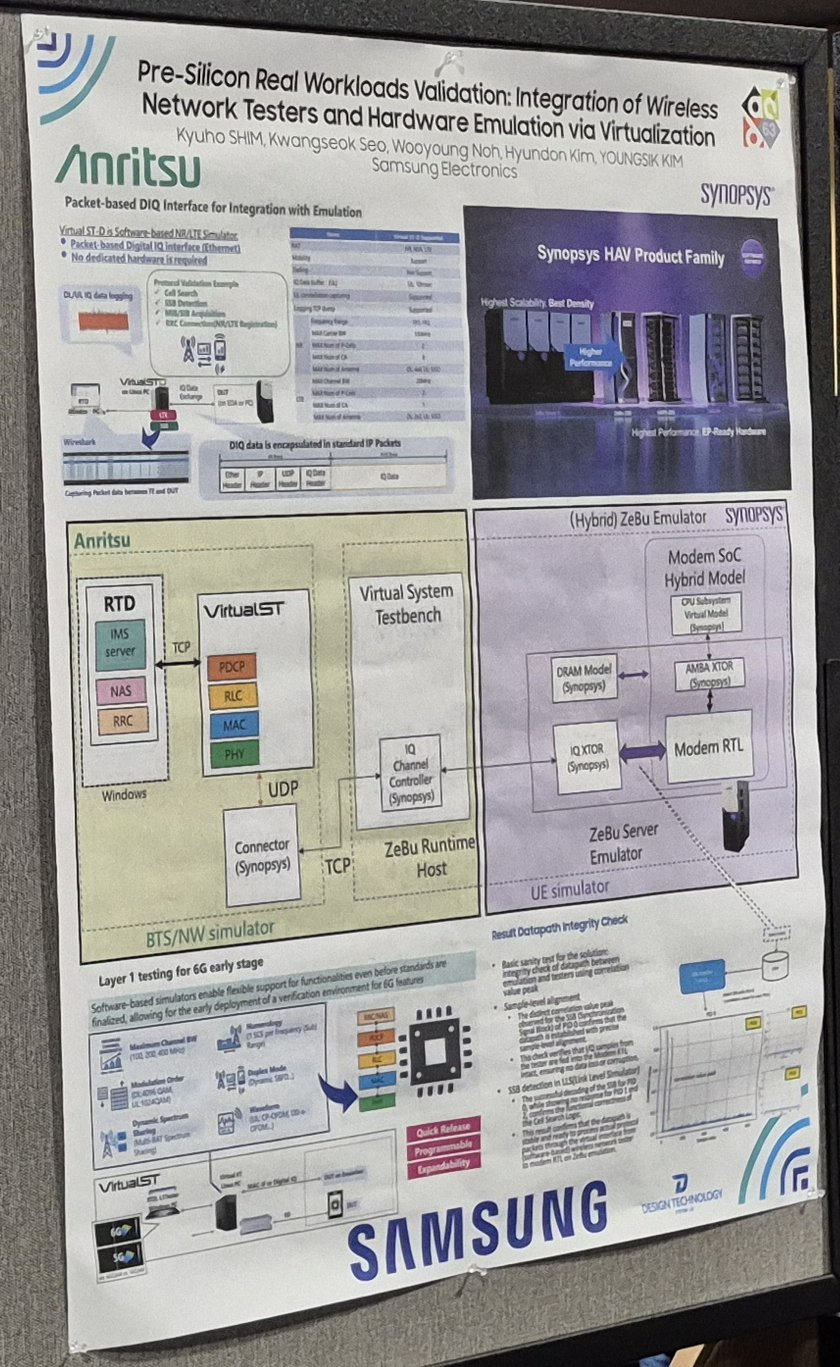
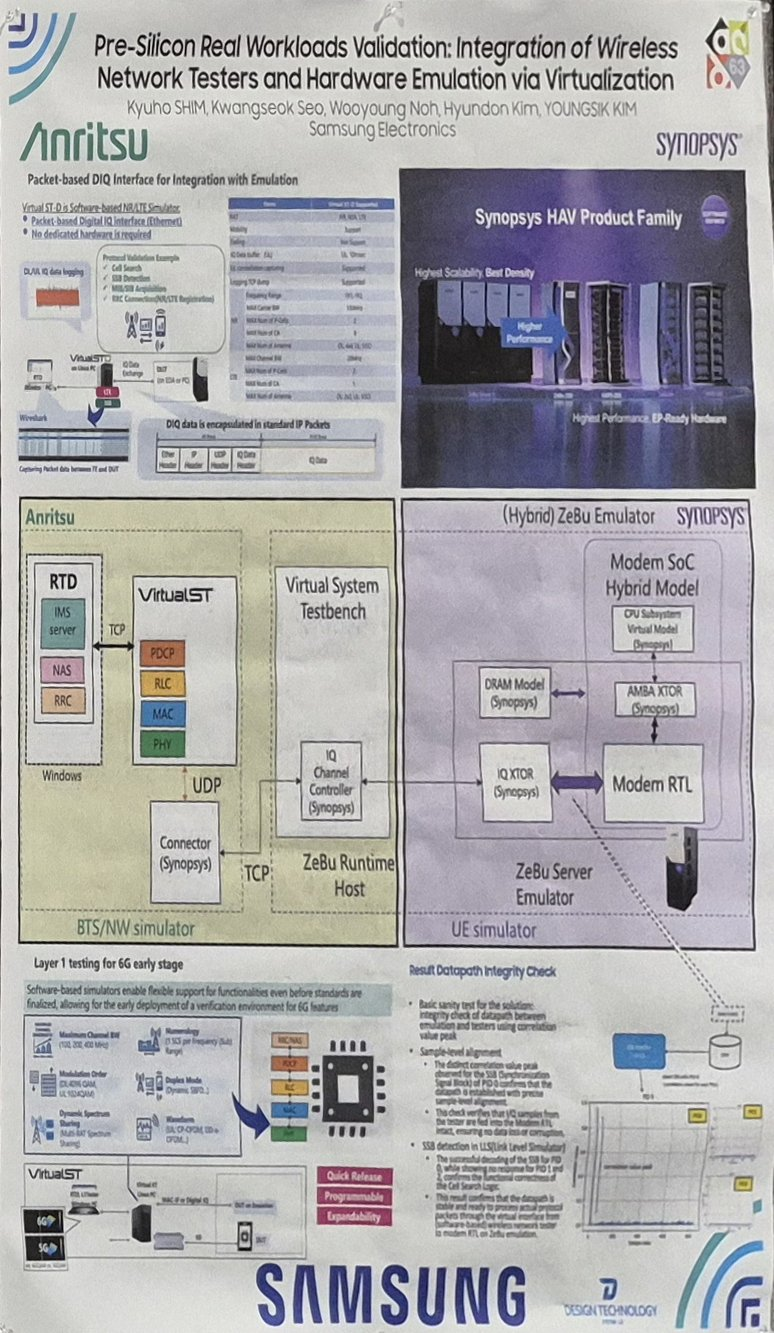
DAC 2026 page: drop the perspective line, front-on Hybrid Virtual ICE poster, tighter related links, rules between topics
Claude-Session: https://claude.ai/code/session_01SteYmA1gsWKWv4FvpXktiq

diff --git a/scripts/3_build_mkdocs.py b/scripts/3_build_mkdocs.py
@@ -115,7 +115,7 @@ def build_conf(conf) -> None:
     def related(p):
         mytags = set(analysis[p["file"]].get("tags", [])) - {"my-work"}
         scored = [(len(mytags & set(analysis[q["file"]].get("tags", []))), q) for q in photos if q is not p]
-        scored = [(n, q) for n, q in scored if n]
+        scored = [(n, q) for n, q in scored if n >= 2]  # at least two shared tags, so related stays related
         scored.sort(key=lambda x: -x[0])
         return [(analysis[q["file"]]["title"], item_id(q)) for _, q in scored[:3]]
 
@@ -142,8 +142,6 @@ def build_conf(conf) -> None:
     lines = [f"# {conf.title}", "",
              f"{m['full_name']} · {m.get('location', '')} · {m.get('dates', '')}", "",
              f"[Official site]({m['url']}) · [Home](../index.md)" if m.get("url") else "[Home](../index.md)", ""]
-    lines += para(f"*{m.get('tagline', '')}* — {n} posters and slides I looked at.",
-                  f"*{m.get('tagline_ko', m.get('tagline', ''))}* — 제가 본 포스터와 슬라이드 {n}개입니다.")
     if m.get("about"):
         lines += head(2, "About DAC", "DAC 소개")
         for en, ko in zip(m["about"], m["about_ko"]):
@@ -164,11 +162,15 @@ def build_conf(conf) -> None:
     for tp in m.get("topics", []):
         ps = [by_stem[s] for s in tp["items"] if s in by_stem]
         placed.update(p["file"] for p in ps)
+        lines += ["---", ""]  # rule between topics
         lines += head(2, tp["title"], tp.get("title_ko", tp["title"]))
         if tp.get("note"):
             lines += para(tp["note"], tp.get("note_ko", tp["note"]))
-        lines += [photo_block(p, analysis[p["file"]], related(p), official(p), pg.get("source", ""), "#official-dac-2026-archive" if pg.get("archive") else "",
-                           program_url(official(p)["title"], index) if official(p) else "", m_url) for p in ps]
+        for n, p in enumerate(ps):
+            if n:
+                lines += ["---", ""]  # thin rule between items of one topic
+            lines += [photo_block(p, analysis[p["file"]], related(p), official(p), pg.get("source", ""), "#official-dac-2026-archive" if pg.get("archive") else "",
+                               program_url(official(p)["title"], index) if official(p) else "", m_url)]
     rest = [p for p in photos if p["file"] not in placed]
     if rest:
         lines += head(2, "Other Posters & Slides", "그 밖의 포스터와 슬라이드")

diff --git a/scripts/1_ingest_and_filter.py b/scripts/1_ingest_and_filter.py
@@ -13,6 +13,8 @@ Re-running keeps manual edits to `kind` / `include` / `blur` in the manifest.
 0..1 of the image) blurs those boxes instead of the detected faces.
 `crop: [x0,y0,x1,y1]` (fractions) keeps only that region (e.g. the poster) and
 skips blurring.
+`warp: [[x,y] x4]` (fractions, corners TL, TR, BR, BL) deskews a poster shot at an angle
+into a front-on view; it replaces `crop` and also skips blurring.
 `--only a.jpg b.jpg` reprocesses just those files.
 """
 import re
@@ -114,6 +116,13 @@ def main() -> int:
             x0, y0, x1, y1 = old["crop"]
             w0, h0 = img.size
             img = img.crop((int(x0 * w0), int(y0 * h0), int(x1 * w0), int(y1 * h0)))
+        if old.get("warp"):  # deskew a poster photographed at an angle
+            w0, h0 = img.size
+            tl, tr, br, bl = [(x * w0, y * h0) for x, y in old["warp"]]
+            ow = int(max(np.hypot(tr[0] - tl[0], tr[1] - tl[1]), np.hypot(br[0] - bl[0], br[1] - bl[1])))
+            oh = int(max(np.hypot(bl[0] - tl[0], bl[1] - tl[1]), np.hypot(br[0] - tr[0], br[1] - tr[1])))
+            m = cv2.getPerspectiveTransform(np.float32([tl, tr, br, bl]), np.float32([[0, 0], [ow, 0], [ow, oh], [0, oh]]))
+            img = Image.fromarray(cv2.warpPerspective(np.array(img), m, (ow, oh), flags=cv2.INTER_CUBIC))
         bgr = cv2.cvtColor(np.array(img), cv2.COLOR_RGB2BGR)
         faces = detect_faces(bgr)
         H, W = bgr.shape[:2]
@@ -124,7 +133,7 @@ def main() -> int:
             kind = "scene"
         else:
             kind = "tech"
-        mode = "none" if old.get("crop") else old.get("blur", "auto")
+        mode = "none" if old.get("crop") or old.get("warp") else old.get("blur", "auto")
         if mode == "auto":
             bgr = scrub(bgr, faces)
         elif mode != "none":
@@ -142,7 +151,7 @@ def main() -> int:
             "faces": len(faces),
             "kind": old.get("kind", kind),
             "include": old.get("include", kind != "skip"),
-            **{k: old[k] for k in ("blur", "crop", "note") if k in old},
+            **{k: old[k] for k in ("blur", "crop", "warp", "note") if k in old},
         })
         print(f"{p.name}: {taken:%m-%d %H:%M} ({src}) faces={len(faces)} kind={items[-1]['kind']}")
 

diff --git a/docs/dac2026/index.md b/docs/dac2026/index.md
@@ -4,12 +4,6 @@
 
 [Official site](https://dac.com/63rd-dac) · [Home](../index.md)
 
-*Front-End Verification & Emulation Perspective* — 18 posters and slides I looked at.
-{ .en }
-
-*프론트엔드 검증과 에뮬레이션 관점* — 제가 본 포스터와 슬라이드 18개입니다.
-{ .ko }
-
 ## About DAC { .en }
 
 ## DAC 소개 { .ko }
@@ -49,6 +43,8 @@ Every talk, poster and paper has its own page, with abstract, in the searchable 
 모든 발표, 포스터, 논문은 검색 가능한 프로그램에 초록과 함께 각자의 페이지가 있고, 전문은 ACM 프로시딩(연구)과 Engineering Track 프로시딩 zip에 있습니다.
 { .ko }
 
+---
+
 ## Emulation, virtualization and firmware-driven verification { .en }
 
 ## 에뮬레이션, 가상화, 펌웨어 기반 검증 { .ko }
@@ -64,14 +60,14 @@ Every talk, poster and paper has its own page, with abstract, in the searchable 
 <div class="en" markdown>
 
 !!! info "Slide / Poster Summary"
-    Engineering Track poster (right; the Samsung Fastboot poster is on the left). A hybrid virtual ICE: instead of a physical target cable, speed adapter and real tester hardware, a wireless network tester (Anritsu) is connected to the ZeBu-emulated modem SoC through a virtualized packet-based IQ interface, so real network workloads run against cycle-accurate RTL before silicon.
+    Engineering Track poster, shown front-on. A hybrid virtual ICE: instead of a physical target cable, speed adapter and real tester hardware, a wireless network tester (Anritsu) is connected to the ZeBu-emulated modem SoC through a virtualized packet-based IQ interface, so real network workloads run against cycle-accurate RTL before silicon.
 
 </div>
 
 <div class="ko" markdown>
 
 !!! info "슬라이드 / 포스터 요약"
-    Engineering Track 포스터(오른쪽, 왼쪽은 삼성 Fastboot 포스터)입니다. 하이브리드 virtual ICE로, 물리 타깃 케이블, 스피드 어댑터, 실제 테스터 하드웨어 대신 무선망 테스터(Anritsu)를 패킷 기반 IQ 인터페이스로 가상화해 ZeBu로 에뮬레이션한 모뎀 SoC에 연결합니다. 실리콘 이전에 사이클 정확한 RTL로 실제 네트워크 워크로드를 돌릴 수 있습니다.
+    Engineering Track 포스터를 정면에서 본 모습입니다. 하이브리드 virtual ICE로, 물리 타깃 케이블, 스피드 어댑터, 실제 테스터 하드웨어 대신 무선망 테스터(Anritsu)를 패킷 기반 IQ 인터페이스로 가상화해 ZeBu로 에뮬레이션한 모뎀 SoC에 연결합니다. 실리콘 이전에 사이클 정확한 RTL로 실제 네트워크 워크로드를 돌릴 수 있습니다.
 
 </div>
 
@@ -105,7 +101,9 @@ Every talk, poster and paper has its own page, with abstract, in the searchable 
 
 </div>
 
-<span class="en">Related:</span><span class="ko">관련:</span> [Fastboot virtualization and on-prem LLM failure analysis (Main Idea slide)](#p20260727162722) · [Firmware-driven random verification on emulation](#p20260727155157) · [DFT verification with Veloce full-chip gate-level emulation](#p20260728134334)
+<span class="en">Related:</span><span class="ko">관련:</span> [Fastboot virtualization and on-prem LLM failure analysis (Main Idea slide)](#p20260727162722)
+
+---
 
 ### Fastboot virtualization and on-prem LLM failure analysis (Main Idea slide) {#p20260727162722}
 
@@ -159,7 +157,9 @@ Every talk, poster and paper has its own page, with abstract, in the searchable 
 
 </div>
 
-<span class="en">Related:</span><span class="ko">관련:</span> [Hybrid Virtual ICE — Pre-Silicon Real Workloads Validation](#p20260727165840) · [Firmware-driven random verification on emulation](#p20260727155157) · [AI-Assisted EDA Tools Development](#p20260728110354)
+<span class="en">Related:</span><span class="ko">관련:</span> [Hybrid Virtual ICE — Pre-Silicon Real Workloads Validation](#p20260727165840)
+
+---
 
 ### Firmware-driven random verification on emulation {#p20260727155157}
 
@@ -213,7 +213,7 @@ Every talk, poster and paper has its own page, with abstract, in the searchable 
 
 </div>
 
-<span class="en">Related:</span><span class="ko">관련:</span> [Fastboot virtualization and on-prem LLM failure analysis (Main Idea slide)](#p20260727162722) · [Hybrid Virtual ICE — Pre-Silicon Real Workloads Validation](#p20260727165840) · [DFT verification with Veloce full-chip gate-level emulation](#p20260728134334)
+---
 
 ### DFT verification with Veloce full-chip gate-level emulation {#p20260728134334}
 
@@ -267,7 +267,7 @@ Every talk, poster and paper has its own page, with abstract, in the searchable 
 
 </div>
 
-<span class="en">Related:</span><span class="ko">관련:</span> [Firmware-driven random verification on emulation](#p20260727155157) · [Fastboot virtualization and on-prem LLM failure analysis (Main Idea slide)](#p20260727162722) · [Hybrid Virtual ICE — Pre-Silicon Real Workloads Validation](#p20260727165840)
+---
 
 ## DFT and RTL generation { .en }
 
@@ -325,7 +325,7 @@ Every talk, poster and paper has its own page, with abstract, in the searchable 
 
 </div>
 
-<span class="en">Related:</span><span class="ko">관련:</span> [AI-Assisted EDA Tools Development](#p20260728110354) · [DFT verification with Veloce full-chip gate-level emulation](#p20260728134334)
+---
 
 ## Power integrity and signoff { .en }
 
@@ -383,7 +383,7 @@ Every talk, poster and paper has its own page, with abstract, in the searchable 
 
 </div>
 
-<span class="en">Related:</span><span class="ko">관련:</span> [Multi-cycle dynamic vectorless analysis for PDN signoff](#p20260728100544) · [VT-skew MC analysis and load-splitting IR-ECO](#p20260728134139)
+---
 
 ### Multi-cycle dynamic vectorless analysis for PDN signoff {#p20260728100544}
 
@@ -437,7 +437,9 @@ Every talk, poster and paper has its own page, with abstract, in the searchable 
 
 </div>
 
-<span class="en">Related:</span><span class="ko">관련:</span> [VT-skew MC analysis and load-splitting IR-ECO](#p20260728134139) · [Voltage-droop mitigation on MAIA 200](#p20260727114025) · [Automated LVS rule deck qualification](#p20260728170302)
+<span class="en">Related:</span><span class="ko">관련:</span> [VT-skew MC analysis and load-splitting IR-ECO](#p20260728134139)
+
+---
 
 ### VT-skew MC analysis and load-splitting IR-ECO {#p20260728134139}
 
@@ -491,7 +493,9 @@ Every talk, poster and paper has its own page, with abstract, in the searchable 
 
 </div>
 
-<span class="en">Related:</span><span class="ko">관련:</span> [Multi-cycle dynamic vectorless analysis for PDN signoff](#p20260728100544) · [Voltage-droop mitigation on MAIA 200](#p20260727114025) · [Automated LVS rule deck qualification](#p20260728170302)
+<span class="en">Related:</span><span class="ko">관련:</span> [Multi-cycle dynamic vectorless analysis for PDN signoff](#p20260728100544)
+
+---
 
 ## Physical verification (LVS) { .en }
 
@@ -535,7 +539,9 @@ Every talk, poster and paper has its own page, with abstract, in the searchable 
 
 </div>
 
-<span class="en">Related:</span><span class="ko">관련:</span> [Accelerating circuit verification with Calibre nmLVS Recon](#p20260729123634) · [Multi-cycle dynamic vectorless analysis for PDN signoff](#p20260728100544) · [VT-skew MC analysis and load-splitting IR-ECO](#p20260728134139)
+<span class="en">Related:</span><span class="ko">관련:</span> [Accelerating circuit verification with Calibre nmLVS Recon](#p20260729123634)
+
+---
 
 ### Accelerating circuit verification with Calibre nmLVS Recon {#p20260729123634}
 
@@ -575,7 +581,9 @@ Every talk, poster and paper has its own page, with abstract, in the searchable 
 
 </div>
 
-<span class="en">Related:</span><span class="ko">관련:</span> [Automated LVS rule deck qualification](#p20260728170302) · [Multi-cycle dynamic vectorless analysis for PDN signoff](#p20260728100544) · [VT-skew MC analysis and load-splitting IR-ECO](#p20260728134139)
+<span class="en">Related:</span><span class="ko">관련:</span> [Automated LVS rule deck qualification](#p20260728170302)
+
+---
 
 ## Verification methodology (CDC, RDC, formal, network) { .en }
 
@@ -633,7 +641,7 @@ Every talk, poster and paper has its own page, with abstract, in the searchable 
 
 </div>
 
-<span class="en">Related:</span><span class="ko">관련:</span> [RDC methodology: noise reduction and accuracy](#p20260728134255) · [Flexible and scalable network modeling for AI/HPC network verification](#p20260728172318)
+---
 
 ### RDC methodology: noise reduction and accuracy {#p20260728134255}
 
@@ -687,7 +695,7 @@ Every talk, poster and paper has its own page, with abstract, in the searchable 
 
 </div>
 
-<span class="en">Related:</span><span class="ko">관련:</span> [Flexible and scalable network modeling for AI/HPC network verification](#p20260728172318) · [Zero-glitch confidence: static, formal and simulation](#p20260729120436)
+---
 
 ### Flexible and scalable network modeling for AI/HPC network verification {#p20260728172318}
 
@@ -741,7 +749,7 @@ Every talk, poster and paper has its own page, with abstract, in the searchable 
 
 </div>
 
-<span class="en">Related:</span><span class="ko">관련:</span> [Firmware-driven random verification on emulation](#p20260727155157) · [RDC methodology: noise reduction and accuracy](#p20260728134255) · [Zero-glitch confidence: static, formal and simulation](#p20260729120436)
+---
 
 ## AI and agentic flows for EDA { .en }
 
@@ -799,7 +807,7 @@ Every talk, poster and paper has its own page, with abstract, in the searchable 
 
 </div>
 
-<span class="en">Related:</span><span class="ko">관련:</span> [Fastboot virtualization and on-prem LLM failure analysis (Main Idea slide)](#p20260727162722) · [Design-aware test points in SystemRDL-to-RTL generators](#p20260728134119) · [DFT verification with Veloce full-chip gate-level emulation](#p20260728134334)
+---
 
 ### AI-powered batch flow for memory cache verification {#p20260729154134}
 
@@ -853,7 +861,7 @@ Every talk, poster and paper has its own page, with abstract, in the searchable 
 
 </div>
 
-<span class="en">Related:</span><span class="ko">관련:</span> [Multi-cycle dynamic vectorless analysis for PDN signoff](#p20260728100544) · [VT-skew MC analysis and load-splitting IR-ECO](#p20260728134139) · [Automated LVS rule deck qualification](#p20260728170302)
+---
 
 ## SoC architecture and memory { .en }
 
@@ -911,6 +919,8 @@ Every talk, poster and paper has its own page, with abstract, in the searchable 
 
 </div>
 
+---
+
 ### SLC-based real-time traffic buffering {#p20260729120300}
 
 **Samsung**
@@ -949,7 +959,7 @@ Every talk, poster and paper has its own page, with abstract, in the searchable 
 
 </div>
 
-<span class="en">Related:</span><span class="ko">관련:</span> [Best Presentation Award — Systems & Software](#p20260729151330)
+---
 
 ### Best Presentation Award — Systems & Software {#p20260729151330}
 
@@ -988,8 +998,6 @@ Every talk, poster and paper has its own page, with abstract, in the searchable 
     Beyond the Block: Verifying Complex Systems in Context — Wed Jul 29, 2:45-3pm, Seaside Ballroom A · [프로그램](https://confcats-siteplex.s3.amazonaws.com/dac/images/dac-2026_program_july-22.pdf) · [공식 페이지](https://63dac.conference-program.com/presentation/?id=ENGPRES048&sess=sess269) · [아카이브](#archive-ko)
 
 </div>
-
-<span class="en">Related:</span><span class="ko">관련:</span> [SLC-based real-time traffic buffering](#p20260729120300)
 
 ## From the Official DAC 2026 Program { .en }
 
